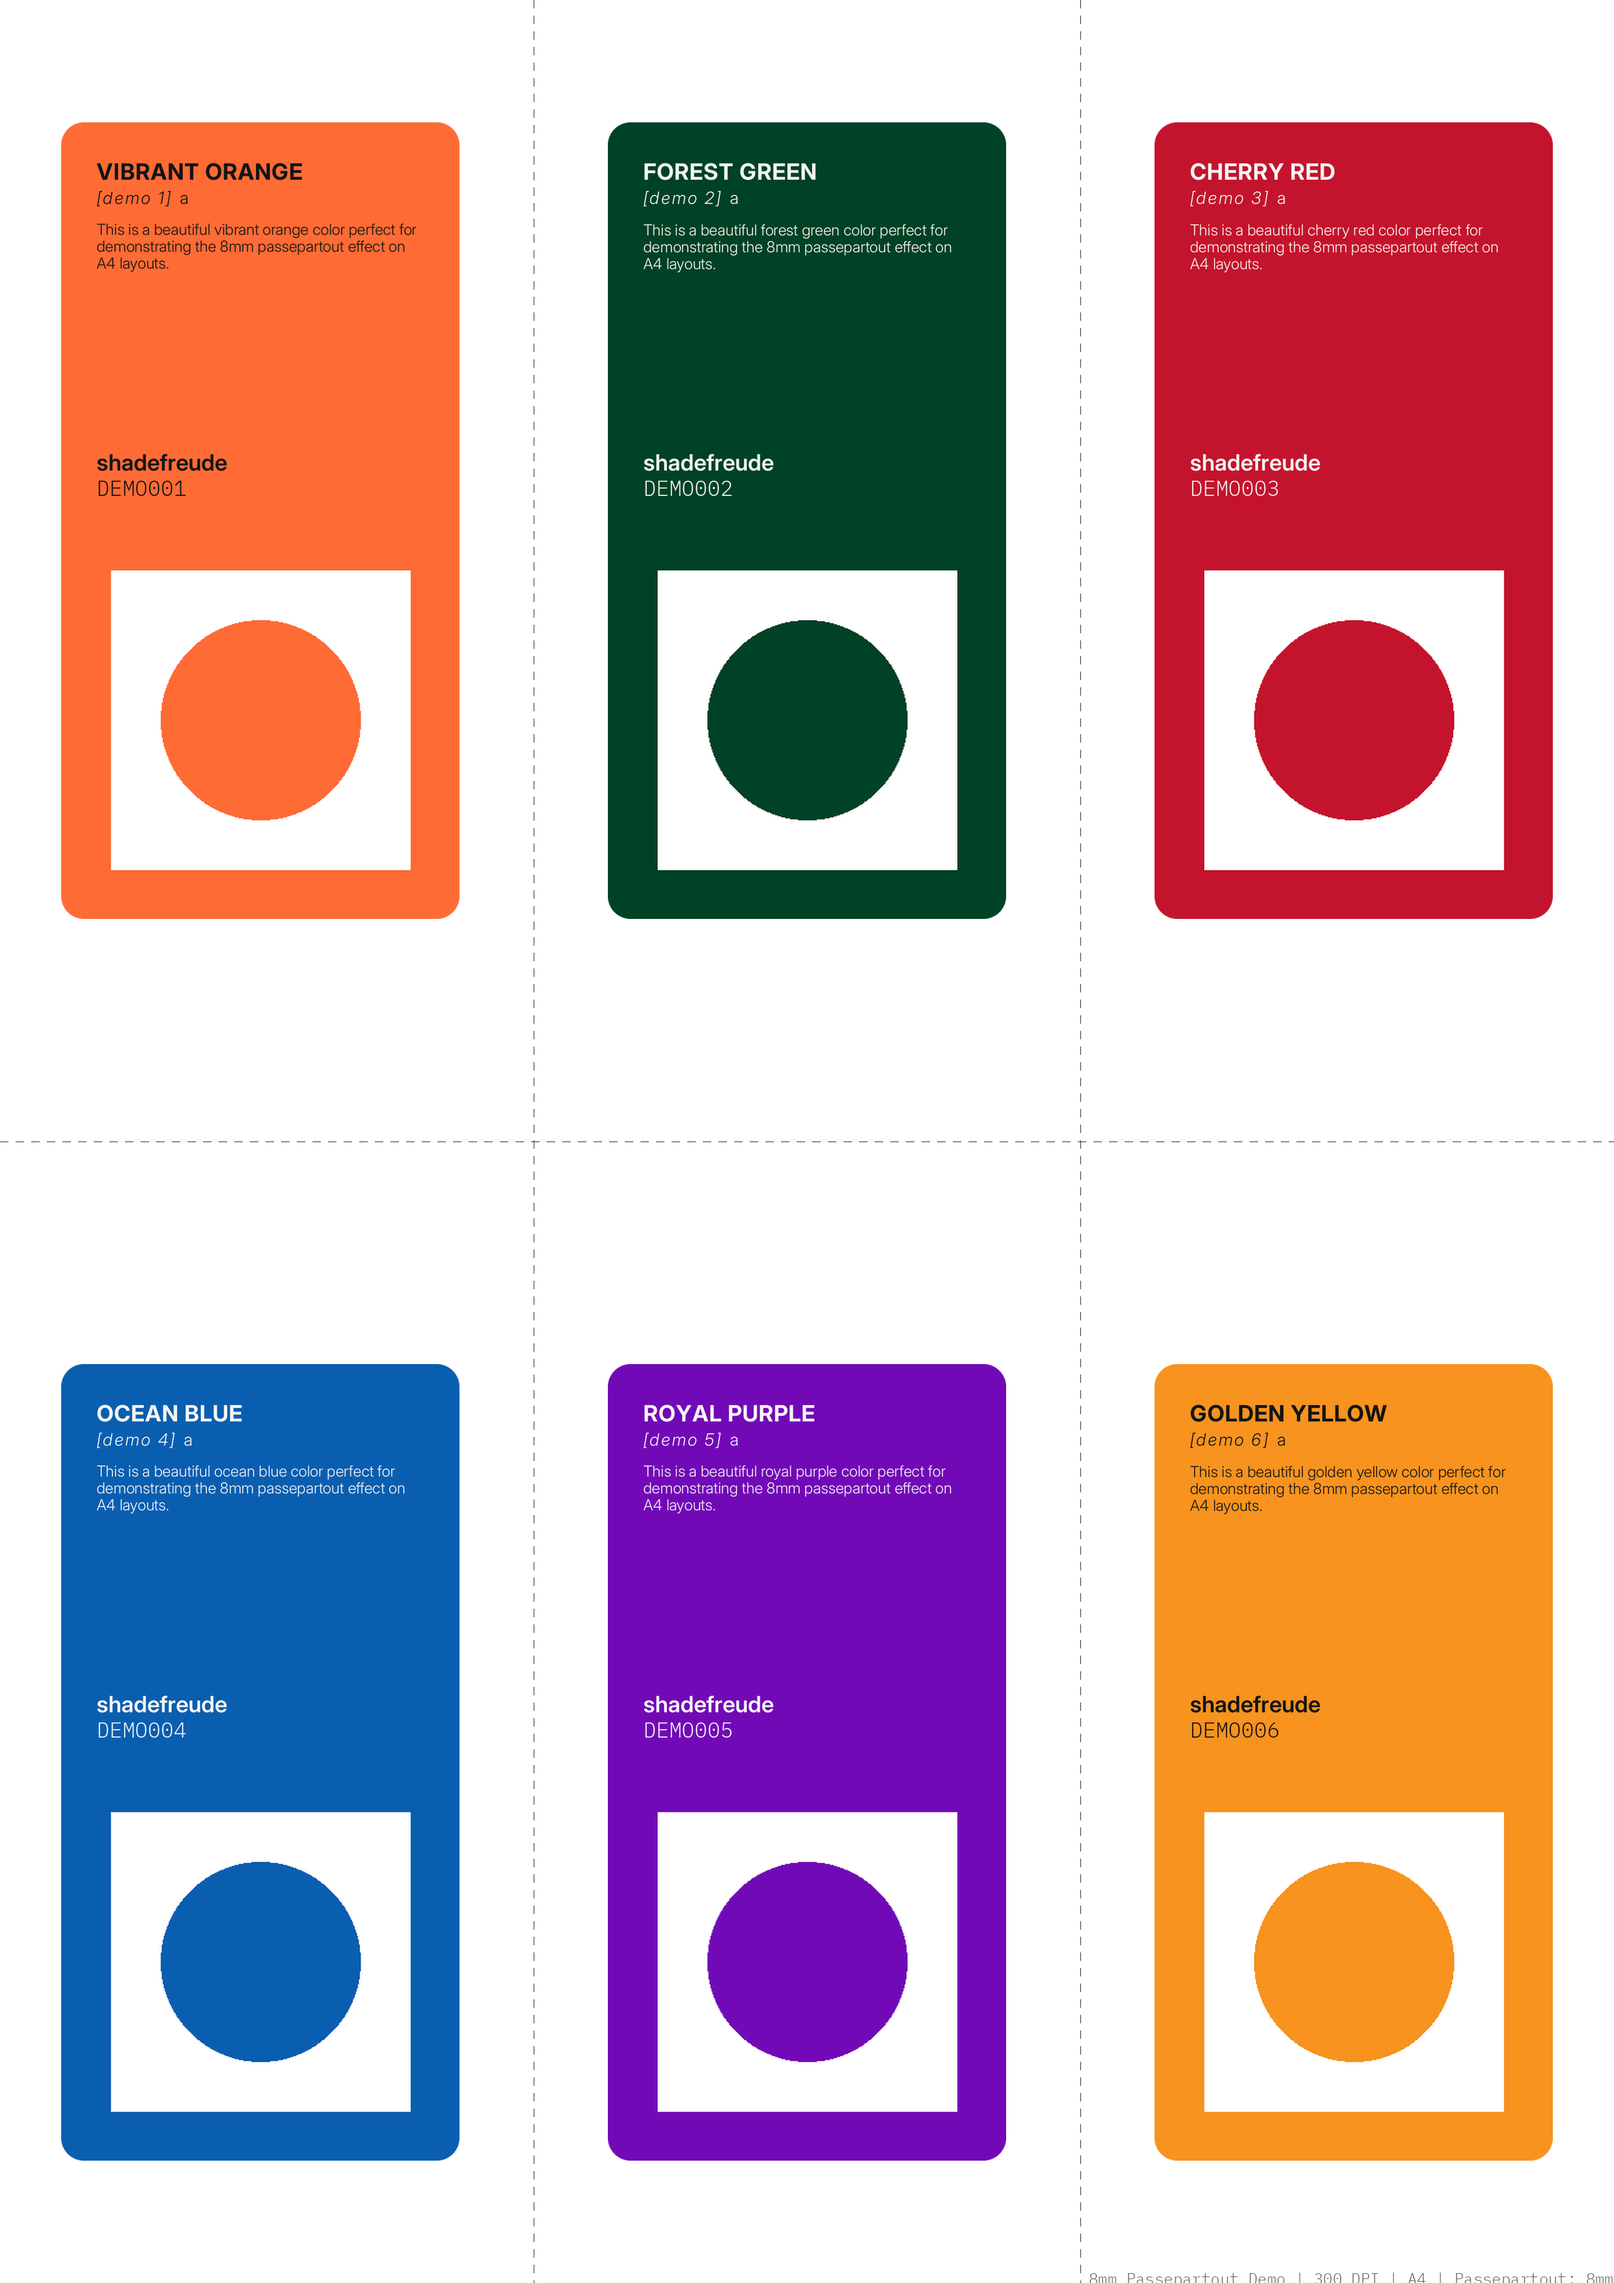
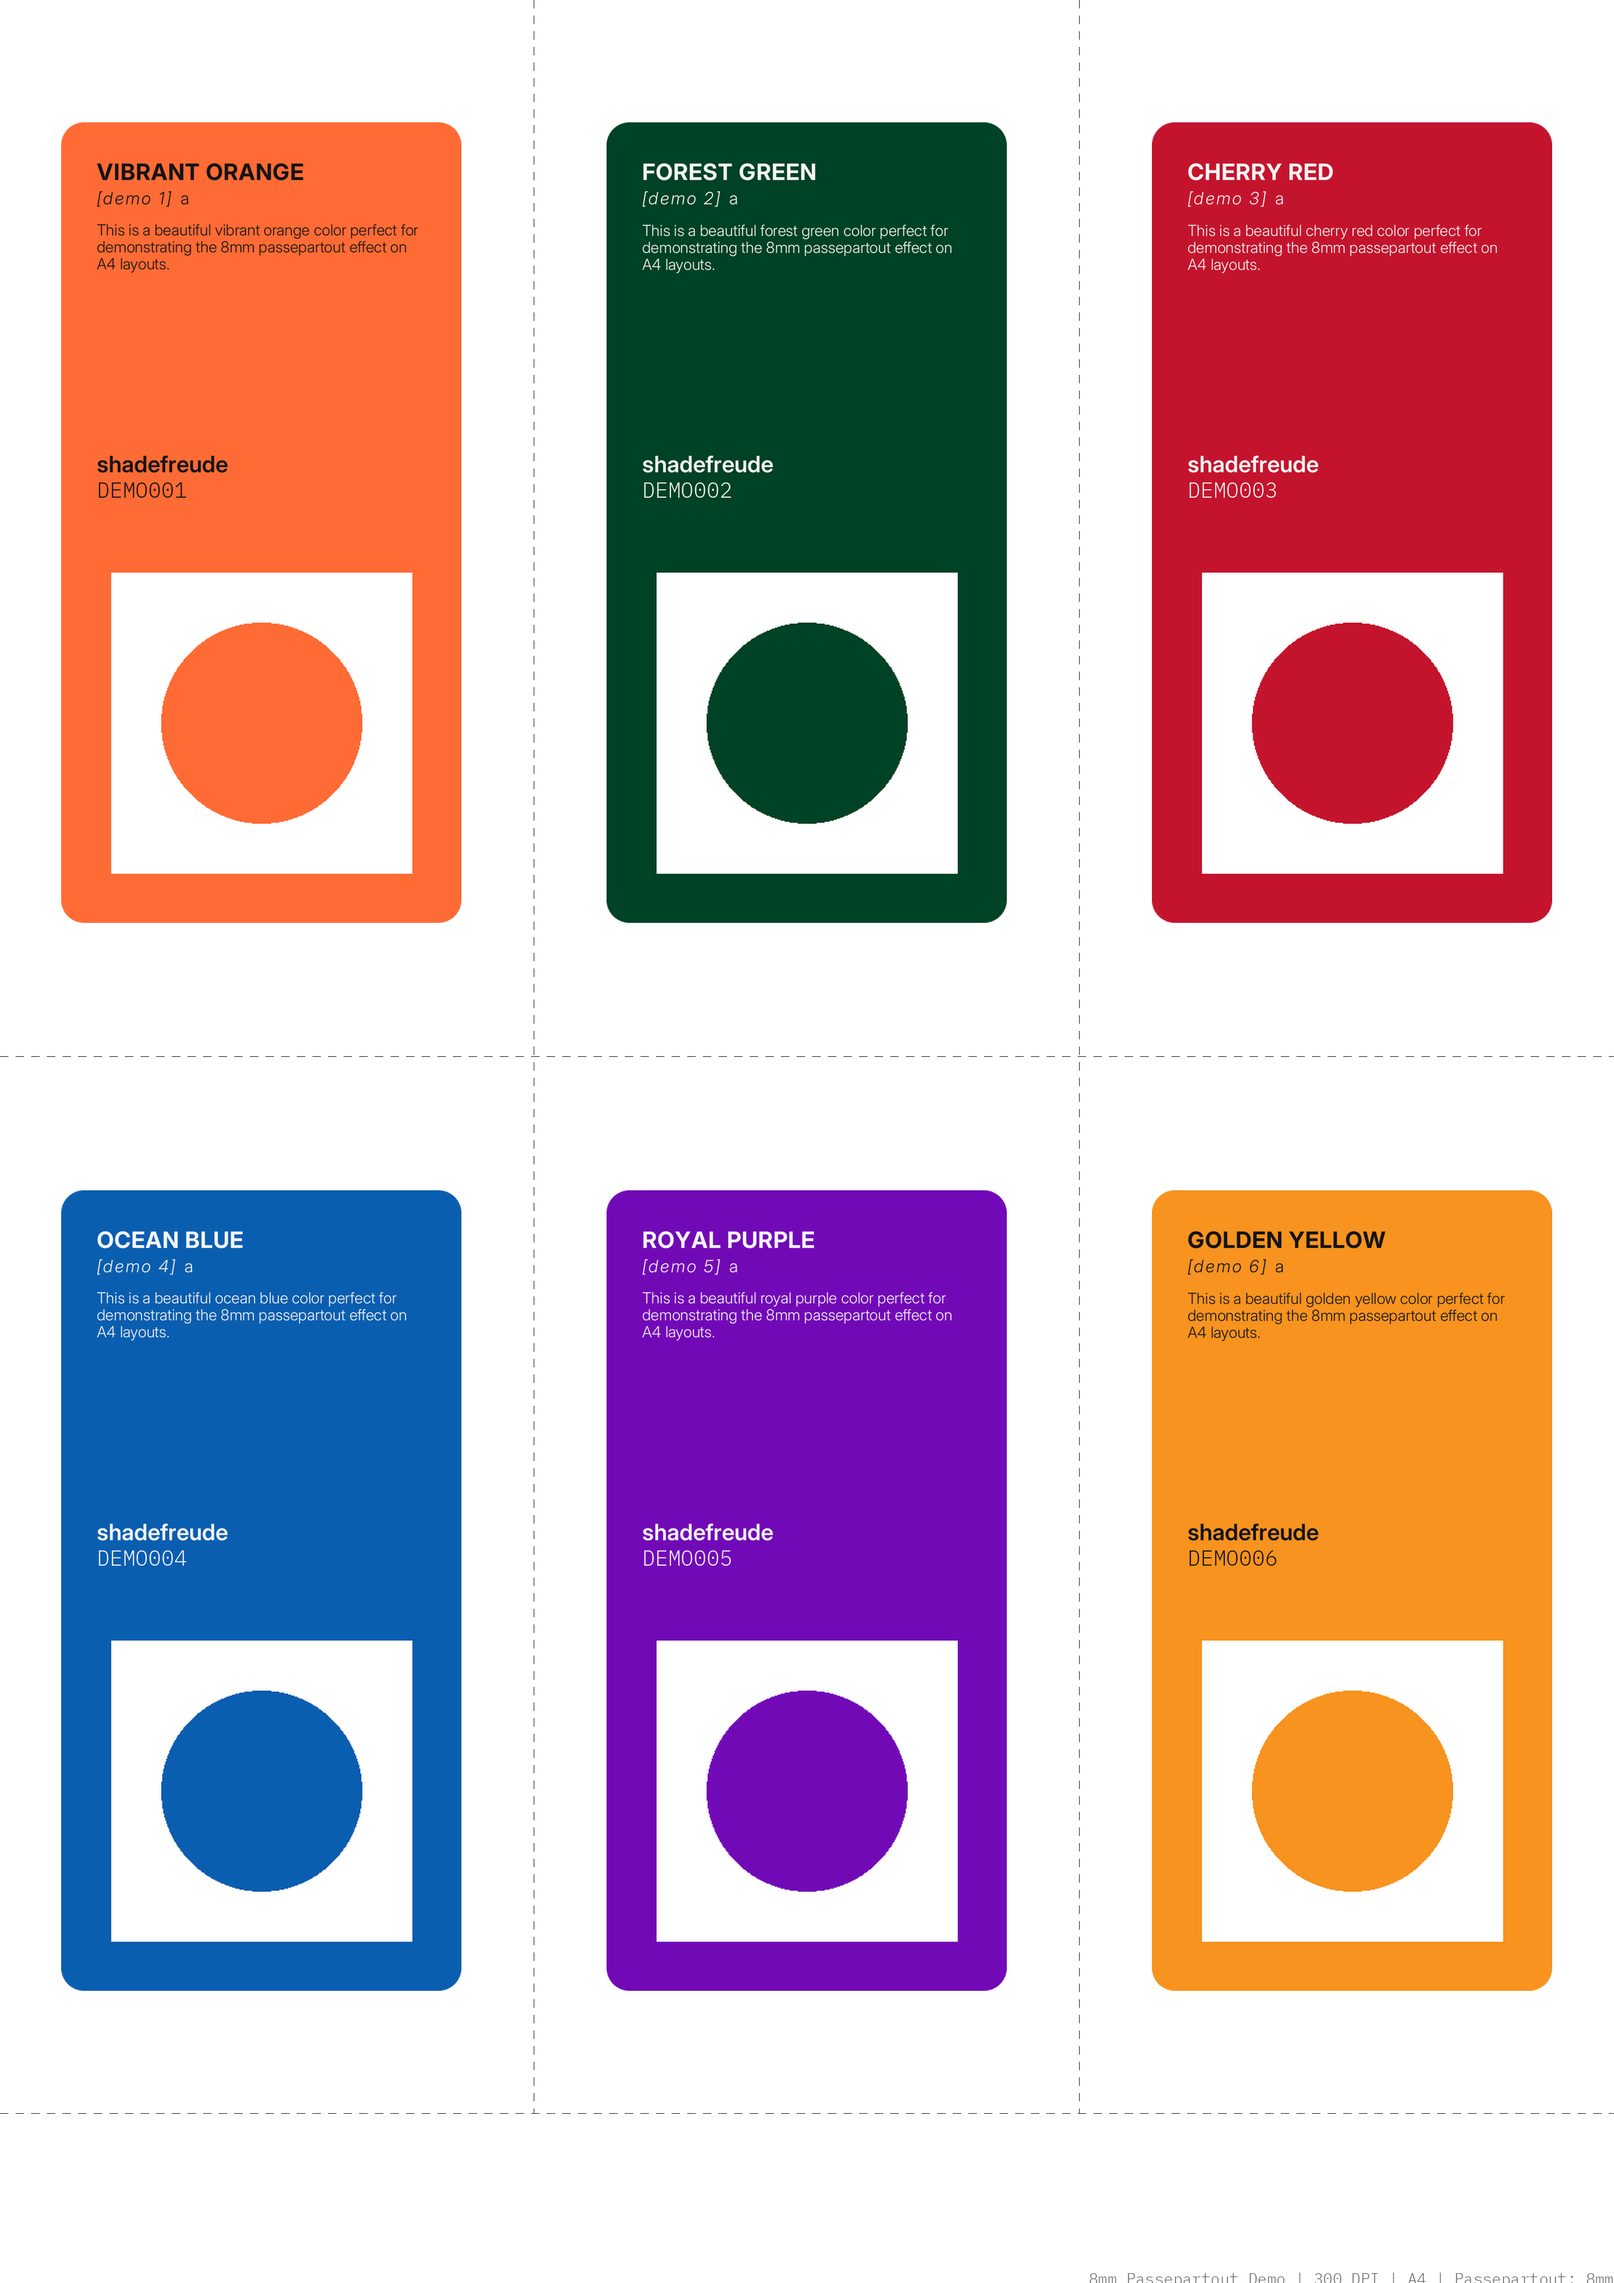
pass partoue v5

diff --git a/api/utils/print_utils.py b/api/utils/print_utils.py
@@ -62,40 +62,46 @@ class A4Layout:
         self.canvas = None
         self.draw = None
         
-        # Calculate optimal card size to maximize page usage
-        desired_spacing_x = 40  # ~3.4mm spacing between cards
-        desired_spacing_y = 40  # ~3.4mm spacing between rows
+        # EXACT calculation based on professional printing standards
+        # 3mm spacing = 35px at 300 DPI (exact conversion)
+        spacing_mm = 3
+        spacing_px = int(spacing_mm * MM_TO_PIXELS)  # 35px exactly
         
-        # Calculate maximum card dimensions while maintaining 1:2 ratio
-        available_width_for_cards = A4_WIDTH_PX - (GRID_COLS - 1) * desired_spacing_x
-        available_height_for_cards = A4_HEIGHT_PX - (GRID_ROWS - 1) * desired_spacing_y
+        # Available space for cards after exact spacing
+        available_width = A4_WIDTH_PX - (GRID_COLS - 1) * spacing_px
+        available_height = A4_HEIGHT_PX - (GRID_ROWS - 1) * spacing_px
         
-        # Calculate optimal card width/height maintaining 1:2 ratio (width:height = 1:2)
-        max_card_width_from_width = available_width_for_cards // GRID_COLS
-        max_card_width_from_height = available_height_for_cards // (GRID_ROWS * 2)  # height = 2*width for 1:2 ratio
+        # Calculate exact optimal card size maintaining 1:2 ratio
+        max_card_width_from_width = available_width // GRID_COLS
+        max_card_width_from_height = available_height // (GRID_ROWS * 2)  # height = 2*width
         
-        # Use the smaller constraint to ensure cards fit
+        # Use the constraint that limits us (should be width-limited)
         optimal_card_width = min(max_card_width_from_width, max_card_width_from_height)
-        optimal_card_height = optimal_card_width * 2  # Maintain 1:2 ratio
+        optimal_card_height = optimal_card_width * 2  # Exact 1:2 ratio
         
-        # Store optimal card dimensions
+        # Store EXACT card dimensions
         self.card_width = optimal_card_width
         self.card_height = optimal_card_height
+        self.actual_spacing_x = spacing_px
+        self.actual_spacing_y = spacing_px
         
-        # Calculate actual spacing with optimal card size
-        self.actual_spacing_x = (A4_WIDTH_PX - GRID_COLS * self.card_width) // (GRID_COLS - 1) if GRID_COLS > 1 else 0
-        self.actual_spacing_y = (A4_HEIGHT_PX - GRID_ROWS * self.card_height) // (GRID_ROWS - 1) if GRID_ROWS > 1 else 0
+        # Calculate ACTUAL layout dimensions (not A4 full size!)
+        self.layout_width = GRID_COLS * self.card_width + (GRID_COLS - 1) * spacing_px
+        self.layout_height = GRID_ROWS * self.card_height + (GRID_ROWS - 1) * spacing_px
         
-        # Layout fills entire page
-        self.layout_width = A4_WIDTH_PX
-        self.layout_height = A4_HEIGHT_PX
+        # Layout starts at page edge (no offset)
         self.offset_x = 0
         self.offset_y = 0
         
-        debug(f"A4 Layout initialized: {A4_WIDTH_PX}×{A4_HEIGHT_PX}px (full page)", request_id=self.request_id)
-        debug(f"Optimal card size: {self.card_width}×{self.card_height}px (vs original {CARD_WIDTH}×{CARD_HEIGHT}px)", request_id=self.request_id)
-        debug(f"Card spacing: {self.actual_spacing_x}px×{self.actual_spacing_y}px", request_id=self.request_id)
-        debug(f"Offset: {self.offset_x}, {self.offset_y} (no centering)", request_id=self.request_id)
+        # Calculate and display exact usage
+        unused_width = A4_WIDTH_PX - self.layout_width
+        unused_height = A4_HEIGHT_PX - self.layout_height
+        
+        debug(f"A4 Canvas: {A4_WIDTH_PX}×{A4_HEIGHT_PX}px (210×297mm)", request_id=self.request_id)
+        debug(f"EXACT card size: {self.card_width}×{self.card_height}px (vs original {CARD_WIDTH}×{CARD_HEIGHT}px)", request_id=self.request_id)
+        debug(f"Layout area: {self.layout_width}×{self.layout_height}px", request_id=self.request_id)
+        debug(f"UNUSED space: {unused_width}px×{unused_height}px ({unused_width*25.4/300:.1f}×{unused_height*25.4/300:.1f}mm)", request_id=self.request_id)
+        debug(f"Card spacing: {self.actual_spacing_x}px = {spacing_mm}mm (exact)", request_id=self.request_id)
         if passepartout_mm > 0:
             debug(f"Passepartout: {passepartout_mm}mm = {self.passepartout_px}px (equal on all sides)", request_id=self.request_id)
     
@@ -201,7 +207,7 @@ class A4Layout:
         return white_canvas
     
     def draw_cutting_guides(self) -> None:
-        """Draw cutting guide lines only between cards (no outer edges, no double lines)"""
+        """Draw cutting guide lines between cards AND bottom trim line for unused space"""
         if not self.draw:
             raise RuntimeError("Canvas not created. Call create_canvas() first.")
         
@@ -214,7 +220,7 @@ class A4Layout:
             # Line position is halfway between the cards
             line_x = left_card_x + self.card_width + (self.actual_spacing_x // 2)
             
-            # Draw vertical line from top of layout to bottom
+            # Draw vertical line from top of layout to bottom of actual layout
             top_y = self.offset_y
             bottom_y = self.offset_y + self.layout_height
             
@@ -235,7 +241,23 @@ class A4Layout:
             
             self._draw_dashed_line((left_x, line_y), (right_x, line_y), CUTTING_LINE_COLOR, CUTTING_LINE_WIDTH)
         
-        log(f"Added cutting guides between cards only (no outer edges, no double lines)", request_id=self.request_id)
+        # CRITICAL: Draw BOTTOM trim line since we have unused space at bottom
+        unused_height = A4_HEIGHT_PX - self.layout_height
+        if unused_height > 10:  # Only if significant unused space (>10px = ~0.8mm)
+            trim_line_y = self.offset_y + self.layout_height
+            
+            # Draw full-width bottom trim line
+            self._draw_dashed_line(
+                (0, trim_line_y), 
+                (A4_WIDTH_PX, trim_line_y), 
+                CUTTING_LINE_COLOR, 
+                CUTTING_LINE_WIDTH
+            )
+            
+            unused_mm = unused_height * 25.4 / 300
+            debug(f"Added BOTTOM trim line at {trim_line_y}px (unused: {unused_height}px = {unused_mm:.1f}mm)", request_id=self.request_id)
+        
+        log(f"Added cutting guides between cards + bottom trim line", request_id=self.request_id)
     
     def _draw_cutting_rectangle(self, left: int, top: int, right: int, bottom: int, width: int = None) -> None:
         """Draw a dashed rectangle for cutting guides"""
